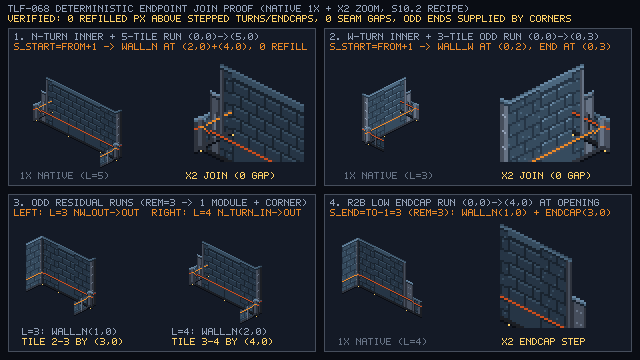
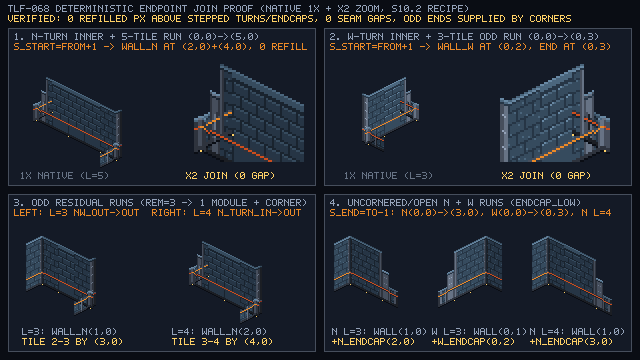
art(ch01): TLF-068 unify uncornered N/W endcap_low contract, join proof, and §10.2 column docs

Changed region(s): [[0.5, 0.6111, 0.9688, 0.9778], [0.5312, 0.55, 0.9688, 0.6111]]

diff --git a/tools/art/gen/tlf068_shape_kit.py b/tools/art/gen/tlf068_shape_kit.py
@@ -984,15 +984,18 @@ def assemble_wall_run(face, from_pt, to_pt, start_kind='corner', end_kind='corne
           * 'corner' for all full-height / same-height start corners (`nw_outer`, `n_turn_outer`,
             `w_turn_outer`, `low_corner_inner`), where s_start = from (first module at from + 1).
       - end_kind:
-          * 'endcap_low' when the tall N/W run ends at an opening with `n_endcap_low` / `w_endcap_low`
-            anchored at `to - 1` (spanning [to-2, to-1] full height + [to-1, to] stepped low bollard),
-            so full-height straight modules stop at s_end = to - 1.
+          * 'endcap_low' when the tall N/W run terminates without a corner (at a Rule R2b doorway/corridor
+            opening OR an uncornered odd/even open end) with `n_endcap_low` / `w_endcap_low` anchored at
+            `to - 1` (spanning [to-2, to-1] full height + [to-1, to] stepped low bollard), so full-height
+            straight modules stop at s_end = to - 1. ('open_odd' is also accepted as a compatibility alias
+            for 'endcap_low'.)
           * 'corner' when `to_pt` has a corner (`n_turn_outer`, `w_turn_outer`, `nw_inner`,
             `low_corner_outer`, `n_turn_inner` on low_E, `w_turn_inner` on low_S), which supplies
             [to-1, to] at full run height, so s_end = to.
 
     Returns:
-      List of (stem, anchor_px, pivot, z_bias) for the straight 2-tile modules (and endcap if end_kind=='endcap_low').
+      List of (stem, anchor_px, pivot, z_bias) for the straight 2-tile modules (and endcap when
+      end_kind in ('endcap_low', 'open_odd')).
       When `rem = s_end - s_start` is odd (`rem = 2*m + 1`), the `m` straight modules cover `[s_start, s_end - 1]`
       and the remaining 1-tile interval `[s_end - 1, s_end]` is already supplied by the end corner's `[to - 1, to]`
       wing (or the endcap's `[to - 2, to - 1]` full-height half) with 0 gap and 0 overlap.
@@ -1003,8 +1006,9 @@ def assemble_wall_run(face, from_pt, to_pt, start_kind='corner', end_kind='corne
     f = fx if along_x else fy
     t = tx if along_x else ty
 
+    use_endcap = (face in ('N', 'W') and end_kind in ('endcap_low', 'open_odd'))
     s_start = (f + 1) if (face in ('N', 'W') and start_kind == 'inner_turn') else f
-    s_end = (t - 1) if (face in ('N', 'W') and end_kind == 'endcap_low') else t
+    s_end = (t - 1) if use_endcap else t
     rem = max(0, s_end - s_start)
     m = rem // 2
 
@@ -1021,7 +1025,7 @@ def assemble_wall_run(face, from_pt, to_pt, start_kind='corner', end_kind='corne
         pt = (u, fy) if along_x else (fx, u)
         placements.append((stem, _tile_to_px(pt[0], pt[1], origin), piv, -2))
 
-    if face in ('N', 'W') and end_kind == 'endcap_low':
+    if use_endcap:
         end_stem = (
             'ch01_env_wall_subterranean_n_endcap_low_idle'
             if face == 'N' else
@@ -1225,6 +1229,34 @@ def build_endpoint_join_proof():
                     refilled += 1
         assert refilled == 0, f"{axis} inner turn has {refilled} refilled pixels!"
 
+    # Programmatic verification of uncornered odd/open N and W runs (L=3 and L=4) with end_kind='endcap_low'
+    # (and alias 'open_odd'): 0 empty screen columns across all 16*L footprint columns and 0 refilled step pixels.
+    n_endcap_im = _render_kit_img('ch01_env_wall_subterranean_n_endcap_low_idle')
+    w_endcap_im = _render_kit_img('ch01_env_wall_subterranean_w_endcap_low_idle')
+    for face, endcap_im, step_rng in (('N', n_endcap_im, range(16, 32)), ('W', w_endcap_im, range(0, 16))):
+        for length in (3, 4):
+            for mode in ('endcap_low', 'open_odd'):
+                to_pt = (length, 0) if face == 'N' else (0, length)
+                run = assemble_wall_run(face, (0, 0), to_pt, 'corner', mode, origin=(112, 96))
+                assert len(run) == 2 and 'endcap_low' in run[-1][0], (face, length, mode, run)
+                # Check 0 refilled pixels above the endcap's stepped half from preceding straight module:
+                w_stem, w_apx, _wpiv, _wzb = run[0]
+                e_stem, e_apx, _epiv, _ezb = run[-1]
+                w_img = _load_or_render_env(w_stem)
+                dx, dy = w_apx[0] - e_apx[0], w_apx[1] - e_apx[1]
+                for x in step_rng:
+                    for y in range(64):
+                        wx, wy = x - dx, y - dy
+                        if 0 <= wx < 32 and 0 <= wy < 64 and endcap_im.getpixel((x, y))[3] == 0:
+                            assert w_img.getpixel((wx, wy))[3] == 0, f"{face} L={length} refilled endcap step at {(x, y)}"
+                # Check 0 empty footprint columns across all 16*L active-axis columns:
+                chk = Image.new('RGBA', (256, 160), (0, 0, 0, 0))
+                items = list(run) + [('ch01_env_wall_subterranean_corner_nw_outer_idle', (112, 96), (16, 56), 10)]
+                for st, apx, pv, zb in sorted(items, key=lambda v: (v[1][1] + v[3], v[1][0])):
+                    chk.alpha_composite(_load_or_render_env(st), (apx[0] - pv[0], apx[1] - pv[1]))
+                xs = range(112, 112 + 16 * length) if face == 'N' else range(112 - 16 * length, 112)
+                assert all(any(chk.getpixel((x, y))[3] != 0 for y in range(160)) for x in xs), (face, length, mode)
+
     _draw_text_img(canvas, 8, 5, "TLF-068 DETERMINISTIC ENDPOINT JOIN PROOF (NATIVE 1X + X2 ZOOM, S10.2 RECIPE)", PAL[15], scale=1)
     _draw_text_img(canvas, 8, 15, "VERIFIED: 0 REFILLED PX ABOVE STEPPED TURNS/ENDCAPS, 0 SEAM GAPS, ODD ENDS SUPPLIED BY CORNERS", PAL[26], scale=1)
 
@@ -1332,19 +1364,35 @@ def build_endpoint_join_proof():
     _draw_text_img(b3, 164, 144, "TILE 3-4 BY (4,0)", PAL[26], scale=1)
     canvas.alpha_composite(b3, (8, 194))
 
-    # Panel 4 (Bottom-Right, 308x158 at (324, 194)): R2b Low Endcap Termination (L=4, s_end=to-1=3, rem=3)
-    b4 = make_box(308, 158, "4. R2B LOW ENDCAP RUN (0,0)->(4,0) AT OPENING", "S_END=TO-1=3 (REM=3): WALL_N(1,0) + ENDCAP(3,0)")
-    crop4 = render_assembly(
-        origin=(36, 72),
+    # Panel 4 (Bottom-Right, 308x158 at (324, 194)): Uncornered/Open N & W Terminations (end_kind='endcap_low', L=3 & L=4)
+    b4 = make_box(308, 158, "4. UNCORNERED/OPEN N + W RUNS (ENDCAP_LOW)", "S_END=TO-1: N(0,0)->(3,0), W(0,0)->(0,3), N L=4")
+    crop4n3 = render_assembly(
+        origin=(24, 72),
+        runs=[('N', (0, 0), (3, 0), 'corner', 'endcap_low', 0)],
+        corners=[(c_nw_out, (0, 0), (16, 56), 10)],
+        crop_rect=(6, 12, 82, 112),
+    )
+    crop4w3 = render_assembly(
+        origin=(72, 72),
+        runs=[('W', (0, 0), (0, 3), 'corner', 'endcap_low', 0)],
+        corners=[(c_nw_out, (0, 0), (16, 56), 10)],
+        crop_rect=(18, 12, 94, 112),
+    )
+    crop4n4 = render_assembly(
+        origin=(24, 72),
         runs=[('N', (0, 0), (4, 0), 'corner', 'endcap_low', 0)],
         corners=[(c_nw_out, (0, 0), (16, 56), 10)],
-        crop_rect=(16, 12, 124, 116),
+        crop_rect=(6, 12, 98, 112),
     )
-    b4.alpha_composite(crop4, (14, 32))
-    _draw_text_img(b4, 14, 144, "1X NATIVE (L=4)", PAL[14], scale=1)
-    z4 = crop4.crop((32, 18, 92, 70)).resize((120, 104), Image.NEAREST)
-    b4.alpha_composite(z4, (176, 30))
-    _draw_text_img(b4, 178, 144, "X2 ENDCAP STEP", PAL[26], scale=1)
+    b4.alpha_composite(crop4n3, (8, 30))
+    _draw_text_img(b4, 8, 134, "N L=3: WALL(1,0)", PAL[15], scale=1)
+    _draw_text_img(b4, 8, 144, "+N_ENDCAP(2,0)", PAL[26], scale=1)
+    b4.alpha_composite(crop4w3, (108, 30))
+    _draw_text_img(b4, 108, 134, "W L=3: WALL(0,1)", PAL[15], scale=1)
+    _draw_text_img(b4, 108, 144, "+W_ENDCAP(0,2)", PAL[26], scale=1)
+    b4.alpha_composite(crop4n4, (206, 30))
+    _draw_text_img(b4, 206, 134, "N L=4: WALL(1,0)", PAL[15], scale=1)
+    _draw_text_img(b4, 206, 144, "+N_ENDCAP(3,0)", PAL[26], scale=1)
     canvas.alpha_composite(b4, (324, 194))
 
     return canvas

diff --git a/design/art/ASSET_METADATA.md b/design/art/ASSET_METADATA.md
@@ -922,8 +922,8 @@ In `scripts/rooms/room_shape.gd` (and `tools/content/build_room_from_shape.py`),
 #### Endpoint-Aware Straight-Run Assembly Recipe (`assemble_wall_run()` in `tools/art/gen/tlf068_shape_kit.py`)
 
 Every `32 px`-wide vertex corner sprite centered on `v` (`pivot = (16, 56)` on `32 × 64` tall/turn corners; `pivot = (16, 24)` on `32 × 32` low corners) spans `16 px` (`1` tile) left of `v` (`x = 0..15`) and `16 px` (`1` tile) right of `v` (`x = 16..31`), so it already supplies **`1` tile on its incoming edge (`[to - 1, to]`)** and **`1` tile on its outgoing edge (`[from, from + 1]`)**. Specifically:
-- On `ch01_env_wall_subterranean_corner_n_turn_inner_idle` (`faces = [&"low_E", &"N"]` at `v = from`), `x = 0..15` supplies `[to.y - 1, to.y]` on the incoming `low_E` edge (`16 px` tall) and `x = 16..31` supplies `[from.x, from.x + 1]` on the outgoing `N` edge stepping up `16 px -> 32 px -> 48 px` (`x = 16..20` bollard, `x = 21..25` steel step, `x = 26..31` full `48 px` tall `N` profile). Because `x = 16..25` is intentionally transparent above the stepped profile, placing a full-height `WallN` module at `from.x + 1` (covering `[from.x, from.x + 2]`) would refill `227` opaque pixels above the step.
-- Symmetric rule on `ch01_env_wall_subterranean_corner_w_turn_inner_idle` (`faces = [&"W", &"low_S"]` at `v = from`): `x = 16..31` supplies `[to.x - 1, to.x]` on incoming `low_S` (`16 px` tall) and `x = 0..15` supplies `[from.y, from.y + 1]` on outgoing `W` stepping up `16 px -> 32 px -> 48 px` (`x = 11..15` bollard, `x = 6..10` steel step, `x = 0..5` full `48 px` tall `W` profile); placing `WallW` at `from.y + 1` would likewise refill `227` opaque pixels above the step.
+- On `ch01_env_wall_subterranean_corner_n_turn_inner_idle` (`faces = [&"low_E", &"N"]` at `v = from`), **both** the incoming `low_E` arm (`[to.y - 1, to.y]`, `16 px` tall) and the outgoing `N` arm (`[from.x, from.x + 1]`, stepping up `16 px -> 32 px -> 48 px`: `x = 16..20` bollard, `x = 21..25` steel step, `x = 26..31` full `48 px` tall `N` profile) project into **`x = 16..31`** (because both `(v.x, v.y - 1)` and `(v.x + 1, v.y)` have `(t.x - t.y) == (v.x - v.y) + 1`). Because `x = 16..25` is intentionally transparent above the stepped profile, placing a full-height `WallN` module at `from.x + 1` (covering `[from.x, from.x + 2]`) would refill `227` opaque pixels above the step.
+- Symmetric rule on `ch01_env_wall_subterranean_corner_w_turn_inner_idle` (`faces = [&"W", &"low_S"]` at `v = from`): **both** the incoming `low_S` arm (`[to.x - 1, to.x]`, `16 px` tall) and the outgoing `W` arm (`[from.y, from.y + 1]`, stepping up `16 px -> 32 px -> 48 px`: `x = 11..15` bollard, `x = 6..10` steel step, `x = 0..5` full `48 px` tall `W` profile) project into **`x = 0..15`** (because both `(v.x - 1, v.y)` and `(v.x, v.y + 1)` have `(t.x - t.y) == (v.x - v.y) - 1`); placing `WallW` at `from.y + 1` would likewise refill `227` opaque pixels above the step.
 
 For any straight segment `from -> to` on `face in {&"N", &"W", &"low_S", &"low_E"}` along active axis coordinate `f -> t` (`f = from.x, t = to.x` on `N`/`low_S`; `f = from.y, t = to.y` on `W`/`low_E`, with `f < t` and total tile length `L = t - f`):
 
@@ -931,34 +931,33 @@ For any straight segment `from -> to` on `face in {&"N", &"W", &"low_S", &"low_E
    - **After `n_turn_inner` on `N` or `w_turn_inner` on `W` (`start_kind == "inner_turn"`):** `s_start = f + 1` (preserving the `[f, f + 1]` low-to-tall step-up supplied by the corner). The **first** 2-tile straight module is anchored at **`u_0 = s_start + 1 = f + 2`** (`tile_to_px(from.x + 2, from.y)` on `N`; `tile_to_px(from.x, from.y + 2)` on `W`), covering `[f + 1, f + 3]` so its outer column (`x = 0` on `WallN`, `x = 31` on `WallW`) abuts the corner's full-height `48 px` edge (`x = 31` on `n_turn_inner`, `x = 0` on `w_turn_inner`) with `0` gap pixels and `0` refilled pixels above the step.
    - **After all other start corners (`nw_outer`, `nw_inner`, `n_turn_outer`, `w_turn_outer`, `low_corner_inner`, `low_corner_outer`, or open start):** `s_start = f`. The **first** 2-tile straight module is anchored at **`u_0 = s_start + 1 = f + 1`** (`tile_to_px(from.x + 1, from.y)` on `N`/`low_S`; `tile_to_px(from.x, from.y + 1)` on `W`/`low_E`), covering `[f, f + 2]` at matching height underneath the corner sprite (`z_bias = +10`).
 2. **Effective straight-module end `s_end` (last straight-module anchor next to each end corner / endcap kind):**
-   - **Before a `Rule R2b` doorway/opening low endcap (`end_kind == "endcap_low"`, where `n_endcap_low` / `w_endcap_low` is anchored at `t - 1` covering `[t - 2, t]`):** `s_end = t - 1` (reserving `[t - 1, t]` for the endcap's `30 px -> 16 px` stepped half so no tall module refills it).
-   - **Before any corner piece at `t` (`n_turn_outer`, `w_turn_outer`, `nw_inner`, `nw_outer`, `n_turn_inner`, `w_turn_inner`, `low_corner_inner`, `low_corner_outer`):** `s_end = t`.
+   - **Before any uncornered/open tall `N`/`W` termination (`end_kind == "endcap_low"`, required for both a `Rule R2b` doorway/corridor opening and any uncornered odd/even open end, where `n_endcap_low` / `w_endcap_low` is anchored at `t - 1` covering `[t - 2, t]`):** `s_end = t - 1` (reserving `[t - 1, t]` for the endcap's `30 px -> 16 px` stepped half so no tall module refills it, while its full-height `48 px` inner half supplies `[t - 2, t - 1]`). *(Note: `assemble_wall_run()` also accepts `"open_odd"` as a compatibility alias for `"endcap_low"`.)*
+   - **Before any corner piece at `t` (`end_kind == "corner"`: `n_turn_outer`, `w_turn_outer`, `nw_inner`, `nw_outer`, `n_turn_inner`, `w_turn_inner`, `low_corner_inner`, `low_corner_outer`):** `s_end = t`.
 3. **Straight 2-tile module count `m` and anchors `u_k` (`k = 0 .. m - 1`):**
    - Compute `rem = max(0, s_end - s_start)` and `m = rem // 2`.
    - Place `m` 2-tile straight modules (`WallN`, `WallW`, `LowS`, or `LowE`, each spanning `[u_k - 1, u_k + 1]`) at axis coordinates:
      $$u_k = s_{\text{start}} + 2k + 1 \quad \text{for } k \in \{0, 1, \dots, m - 1\}$$
      so the **first** straight module is at `u_0 = s_start + 1` and the **last** straight module is at `u_{m-1} = s_start + 2*m - 1` (covering `[s_start, s_start + 2*m]`).
 4. **Residual / odd-length end handling (`rem % 2 == 1` vs `rem % 2 == 0`) & `z_bias` layering:**
-   - **When `rem` is even (`2*m == rem`):** The `m` straight modules cover `[s_start, s_end]`. The end corner at `t` (drawn with `z_bias = +10` after straight runs at `z_bias = 0`) or the full-height half `[t - 2, t - 1]` of the low endcap at `t - 1` (`z_bias = +5`) composites cleanly over `[s_end - 1, s_end]` at matching height.
-   - **When `rem` is odd (`2*m == rem - 1`, e.g., a 3-tile short run `(0,0)->(3,0)` with `s_start = 0, s_end = 3, rem = 3, m = 1` at `u_0 = 1`; or a 5-tile NE-cut `N` run `(7,0)->(12,0)` after `n_turn_inner` with `s_start = 8, s_end = 12, rem = 4, m = 2` at `u = 9, 11`; or a 3-tile SW-cut `W` run `(0,0)->(0,3)` after `w_turn_inner` with `s_start = 1, s_end = 3, rem = 2, m = 1` at `u_0 = 2`; or a 4-tile run `(0,0)->(4,0)` after `n_turn_inner` with `s_start = 1, s_end = 4, rem = 3, m = 1` at `u_0 = 2`):** The `m` straight modules cover `[s_start, s_end - 1]`, and the remaining 1-tile residual interval **`[s_end - 1, s_end]` is already 100% supplied** by:
-     - the end corner's incoming 1-tile wing `[t - 1, t]` (`x = 0..15` on `n_turn_outer` / `nw_inner` / `low_corner_inner` / `low_corner_outer`; `x = 16..31` on `w_turn_outer` / `nw_inner` / `n_turn_inner` / `low_corner_outer`), which has matching `48 px` tall or `16 px` low profile across that full tile, **or**
-     - when `end_kind == "endcap_low"` (`s_end = t - 1`), the full-height `48 px` inner half `[t - 2, t - 1]` of `n_endcap_low` / `w_endcap_low` anchored at `t - 1` (while its outer half `[t - 1, t]` steps down to `16 px`), **or**
-     - if an odd `N`/`W` run terminates at an uncornered open end (`end_kind == "open_odd"`), `n_endcap_low` / `w_endcap_low` anchored at `t - 1`.
+   - **When `rem` is even (`2*m == rem`, e.g., an uncornered odd `L = 3` run `assemble_wall_run('N', (0,0), (3,0), 'corner', 'endcap_low')` or `assemble_wall_run('W', (0,0), (0,3), 'corner', 'endcap_low')` where `s_start = 0, s_end = 2, rem = 2, m = 1`):** The `m` straight modules cover `[s_start, s_end]` (`WallN(1,0)` / `WallW(0,1)` covering `[0,2]`). When `end_kind == "corner"`, the end corner at `t` (`z_bias = +10`) composites over `[t - 1, t]` at matching height; when `end_kind == "endcap_low"`, `n_endcap_low(2,0)` / `w_endcap_low(0,2)` (`z_bias = +2`) covers `[1, 2]` with its full-height `48 px` inner half and supplies the final uncornered tile `[2, 3]` with its `30 -> 16 px` stepped half (`0` empty columns, `0` refilled step pixels).
+   - **When `rem` is odd (`2*m == rem - 1`, e.g., a 3-tile corner-ended run `(0,0)->(3,0)` with `s_start = 0, s_end = 3, rem = 3, m = 1` at `u_0 = 1`; a 4-tile inner-turn run `(0,0)->(4,0)` after `n_turn_inner` with `s_start = 1, s_end = 4, rem = 3, m = 1` at `u_0 = 2`; or a 4-tile open/endcap run `assemble_wall_run('N', (0,0), (4,0), 'corner', 'endcap_low')` with `s_start = 0, s_end = 3, rem = 3, m = 1` at `u_0 = 1`):** The `m` straight modules cover `[s_start, s_end - 1]`, and the remaining 1-tile residual interval **`[s_end - 1, s_end]` is already 100% supplied** by:
+     - when `end_kind == "corner"`, the end corner's incoming 1-tile wing `[t - 1, t]` (`x = 0..15` on `n_turn_outer` / `nw_inner` / `w_turn_inner` / `low_corner_outer`; `x = 16..31` on `w_turn_outer` / `n_turn_inner`), which has matching `48 px` tall or `16 px` low profile across that full tile, **or**
+     - when `end_kind == "endcap_low"` (`s_end = t - 1`), the full-height `48 px` inner half `[t - 2, t - 1]` of `n_endcap_low` / `w_endcap_low` anchored at `t - 1` (while its outer half `[t - 1, t]` steps down to `16 px`).
 
 | `wall_segments()` `kind` | `face` | `faces` (`[prev, next]`) | Asset Filename (`assets/environments/ch01/`) | Canvas (`W×H`) | Pivot / `offset` | Tile / Vertex Anchor `position` (`RoomShape.tile_to_px(...)`) | Edge Occupancy & Endpoint Rule |
 |---|---|---|---|---|---|---|---|
-| `&"straight"` | `&"N"` | *(n/a)* | `ch01_env_wall_subterranean_n_idle.png` *(existing)* | `32 × 64 px` | `(16, 56)` / `Vector2(-16, -56)` | `tile_to_px(s_start + 2*k + 1, from.y)` for `k in 0 .. (rem // 2) - 1` (`s_start = from.x + 1` after `n_turn_inner`, else `from.x`; `s_end = to.x - 1` before `n_endcap_low`, else `to.x`; `rem = s_end - s_start`) | Each module spans `[u_k - 1, u_k + 1]`; first at `from.x + 2` after `n_turn_inner`, `from.x + 1` after `nw_outer`; odd residual `[s_end - 1, s_end]` supplied by end corner/endcap |
-| `&"straight"` | `&"W"` | *(n/a)* | `ch01_env_wall_subterranean_w_idle.png` *(existing)* | `32 × 64 px` | `(16, 56)` / `Vector2(-16, -56)` | `tile_to_px(from.x, s_start + 2*k + 1)` for `k in 0 .. (rem // 2) - 1` (`s_start = from.y + 1` after `w_turn_inner`, else `from.y`; `s_end = to.y - 1` before `w_endcap_low`, else `to.y`; `rem = s_end - s_start`) | Each module spans `[u_k - 1, u_k + 1]`; first at `from.y + 2` after `w_turn_inner`, `from.y + 1` after `nw_outer`; odd residual `[s_end - 1, s_end]` supplied by end corner/endcap |
-| `&"straight"` *(R2b opening / open odd end)* | `&"N"` | *(n/a)* | `ch01_env_wall_subterranean_n_endcap_low_idle.png` | `32 × 64 px` | `(16, 56)` / `Vector2(-16, -56)` | `tile_to_px(to.x - 1, from.y)` (`z_bias = +5`) | Spans `[to.x - 2, to.x]`: `x = 0..15` (`[to.x - 2, to.x - 1]`) is `48 px` tall `N` wall; `x = 16..31` (`[to.x - 1, to.x]`) steps `30 px -> 16 px` (`s_end = to.x - 1`) |
-| `&"straight"` *(R2b opening / open odd end)* | `&"W"` | *(n/a)* | `ch01_env_wall_subterranean_w_endcap_low_idle.png` | `32 × 64 px` | `(16, 56)` / `Vector2(-16, -56)` | `tile_to_px(from.x, to.y - 1)` (`z_bias = +5`) | Spans `[to.y - 2, to.y]`: `x = 16..31` (`[to.y - 2, to.y - 1]`) is `48 px` tall `W` wall; `x = 0..15` (`[to.y - 1, to.y]`) steps `30 px -> 16 px` (`s_end = to.y - 1`) |
+| `&"straight"` | `&"N"` | *(n/a)* | `ch01_env_wall_subterranean_n_idle.png` *(existing)* | `32 × 64 px` | `(16, 56)` / `Vector2(-16, -56)` | `tile_to_px(s_start + 2*k + 1, from.y)` for `k in 0 .. (rem // 2) - 1` (`s_start = from.x + 1` after `n_turn_inner`, else `from.x`; `s_end = to.x - 1` when `end_kind == "endcap_low"`, else `to.x`; `rem = s_end - s_start`) | Each module spans `[u_k - 1, u_k + 1]`; first at `from.x + 2` after `n_turn_inner`, `from.x + 1` after `nw_outer`; odd residual `[s_end - 1, s_end]` supplied by end corner/endcap |
+| `&"straight"` | `&"W"` | *(n/a)* | `ch01_env_wall_subterranean_w_idle.png` *(existing)* | `32 × 64 px` | `(16, 56)` / `Vector2(-16, -56)` | `tile_to_px(from.x, s_start + 2*k + 1)` for `k in 0 .. (rem // 2) - 1` (`s_start = from.y + 1` after `w_turn_inner`, else `from.y`; `s_end = to.y - 1` when `end_kind == "endcap_low"`, else `to.y`; `rem = s_end - s_start`) | Each module spans `[u_k - 1, u_k + 1]`; first at `from.y + 2` after `w_turn_inner`, `from.y + 1` after `nw_outer`; odd residual `[s_end - 1, s_end]` supplied by end corner/endcap |
+| `&"straight"` *(`end_kind == "endcap_low"`)* | `&"N"` | *(n/a)* | `ch01_env_wall_subterranean_n_endcap_low_idle.png` | `32 × 64 px` | `(16, 56)` / `Vector2(-16, -56)` | `tile_to_px(to.x - 1, from.y)` (`z_bias = +2`) | Required for any uncornered/open `N` end (R2b opening or odd/even open end). Spans `[to.x - 2, to.x]`: `x = 0..15` (`[to.x - 2, to.x - 1]`) is `48 px` tall `N` wall; `x = 16..31` (`[to.x - 1, to.x]`) steps `30 px -> 16 px` (`s_end = to.x - 1`) |
+| `&"straight"` *(`end_kind == "endcap_low"`)* | `&"W"` | *(n/a)* | `ch01_env_wall_subterranean_w_endcap_low_idle.png` | `32 × 64 px` | `(16, 56)` / `Vector2(-16, -56)` | `tile_to_px(from.x, to.y - 1)` (`z_bias = +2`) | Required for any uncornered/open `W` end (R2b opening or odd/even open end). Spans `[to.y - 2, to.y]`: `x = 16..31` (`[to.y - 2, to.y - 1]`) is `48 px` tall `W` wall; `x = 0..15` (`[to.y - 1, to.y]`) steps `30 px -> 16 px` (`s_end = to.y - 1`) |
 | `&"straight"` | `&"low_S"` | *(n/a)* | `ch01_env_wall_partition_low_s_idle.png` | `32 × 32 px` | `(16, 24)` / `Vector2(-16, -24)` | `tile_to_px(from.x + 2*k + 1, from.y)` for `k in 0 .. (rem // 2) - 1` (`s_start = from.x`, `s_end = to.x`, `rem = to.x - from.x`) | `Rule R2`: `16 px <= 20 px` tall; odd residual `[to.x - 1, to.x]` supplied by end corner `[to.x - 1, to.x]` wing |
 | `&"straight"` | `&"low_E"` | *(n/a)* | `ch01_env_wall_partition_low_e_idle.png` | `32 × 32 px` | `(16, 24)` / `Vector2(-16, -24)` | `tile_to_px(from.x, from.y + 2*k + 1)` for `k in 0 .. (rem // 2) - 1` (`s_start = from.y`, `s_end = to.y`, `rem = to.y - from.y`) | `Rule R2`: `16 px <= 20 px` tall; odd residual `[to.y - 1, to.y]` supplied by end corner `[to.y - 1, to.y]` wing |
 | `&"outer_corner"` | `&"N"` | `[&"W", &"N"]` | `ch01_env_wall_subterranean_corner_nw_outer_idle.png` | `32 × 64 px` | `(16, 56)` / `Vector2(-16, -56)` | `tile_to_px(from)` (`from == to == v`, `z_bias = +10`) | Supplies `48 px` `[v.y, v.y + 1]` on `W` (`x = 0..15`) and `48 px` `[v.x, v.x + 1]` on `N` (`x = 16..31`); next straight starts at `s_start = f` (`u_0 = f + 1`) |
-| `&"inner_corner"` | `&"N"` | `[&"N", &"W"]` | `ch01_env_wall_subterranean_corner_nw_inner_idle.png` | `32 × 64 px` | `(16, 56)` / `Vector2(-16, -56)` | `tile_to_px(from)` (`from == to == v`, `z_bias = +10`) | Supplies `48 px` `[v.x - 1, v.x]` on incoming `N` (`x = 0..15`) and `48 px` `[v.y - 1, v.y]` on `W` (`x = 16..31`) |
+| `&"inner_corner"` | `&"N"` | `[&"N", &"W"]` | `ch01_env_wall_subterranean_corner_nw_inner_idle.png` | `32 × 64 px` | `(16, 56)` / `Vector2(-16, -56)` | `tile_to_px(from)` (`from == to == v`, `z_bias = +10`) | Supplies `48 px` `[v.x - 1, v.x]` on incoming `N` and `48 px` `[v.y, v.y + 1]` on outgoing `W` (`x = 0..15` wings + `x = 15..20` corner pillar) |
 | `&"outer_corner"` | `&"N"` | `[&"N", &"low_E"]` | `ch01_env_wall_subterranean_corner_n_turn_outer_idle.png` | `32 × 64 px` | `(16, 56)` / `Vector2(-16, -56)` | `tile_to_px(from)` (`from == to == v`, `z_bias = +10`) | Supplies `48 px` `[v.x - 1, v.x]` on incoming `N` (`x = 0..15`) + `6 px` return cap (`x = 16..21`) + `16 px` `[v.y, v.y + 1]` on outgoing `low_E` (`x = 0..15`) |
-| `&"inner_corner"` | `&"N"` | `[&"low_E", &"N"]` | `ch01_env_wall_subterranean_corner_n_turn_inner_idle.png` | `32 × 64 px` | `(16, 56)` / `Vector2(-16, -56)` | `tile_to_px(from)` (`from == to == v`, `z_bias = +10`) | Supplies `16 px` `[v.y - 1, v.y]` on incoming `low_E` (`x = 0..15`) and stepped `16->32->48 px` `[v.x, v.x + 1]` on outgoing `N` (`x = 16..31`); sets `s_start = v.x + 1` (first `WallN` at `v.x + 2`) |
+| `&"inner_corner"` | `&"N"` | `[&"low_E", &"N"]` | `ch01_env_wall_subterranean_corner_n_turn_inner_idle.png` | `32 × 64 px` | `(16, 56)` / `Vector2(-16, -56)` | `tile_to_px(from)` (`from == to == v`, `z_bias = +10`) | Supplies `16 px` `[v.y - 1, v.y]` on incoming `low_E` and stepped `16->32->48 px` `[v.x, v.x + 1]` on outgoing `N` (both in `x = 16..31`); sets `s_start = v.x + 1` (first `WallN` at `v.x + 2`) |
 | `&"outer_corner"` | `&"W"` | `[&"low_S", &"W"]` | `ch01_env_wall_subterranean_corner_w_turn_outer_idle.png` | `32 × 64 px` | `(16, 56)` / `Vector2(-16, -56)` | `tile_to_px(from)` (`from == to == v`, `z_bias = +10`) | Supplies `48 px` `[v.y - 1, v.y]` on `W` (`x = 16..31`) + `6 px` return cap (`x = 10..15`) + `16 px` `[v.x, v.x + 1]` on `low_S` (`x = 16..31`) |
-| `&"inner_corner"` | `&"W"` | `[&"W", &"low_S"]` | `ch01_env_wall_subterranean_corner_w_turn_inner_idle.png` | `32 × 64 px` | `(16, 56)` / `Vector2(-16, -56)` | `tile_to_px(from)` (`from == to == v`, `z_bias = +10`) | Supplies `16 px` `[v.x - 1, v.x]` on `low_S` (`x = 16..31`) and stepped `16->32->48 px` `[v.y, v.y + 1]` on `W` (`x = 0..15`); sets `s_start = v.y + 1` (first `WallW` at `v.y + 2`) |
+| `&"inner_corner"` | `&"W"` | `[&"W", &"low_S"]` | `ch01_env_wall_subterranean_corner_w_turn_inner_idle.png` | `32 × 64 px` | `(16, 56)` / `Vector2(-16, -56)` | `tile_to_px(from)` (`from == to == v`, `z_bias = +10`) | Supplies `16 px` `[v.x - 1, v.x]` on `low_S` and stepped `16->32->48 px` `[v.y, v.y + 1]` on `W` (both in `x = 0..15`); sets `s_start = v.y + 1` (first `WallW` at `v.y + 2`) |
 | `&"inner_corner"` | `&"low_S"` | `[&"low_S", &"low_E"]` | `ch01_env_wall_partition_low_corner_inner_idle.png` | `32 × 32 px` | `(16, 24)` / `Vector2(-16, -24)` | `tile_to_px(from)` (`from == to == v`, `z_bias = +10`) | Supplies `16 px` `[v.x, v.x + 1]` on `low_S` (`x = 16..31`) and `16 px` `[v.y, v.y + 1]` on `low_E` (`x = 0..15`); `s_start = f` (`u_0 = f + 1`) |
 | `&"outer_corner"` | `&"low_S"` | `[&"low_E", &"low_S"]` | `ch01_env_wall_partition_low_corner_outer_idle.png` | `32 × 32 px` | `(16, 24)` / `Vector2(-16, -24)` | `tile_to_px(from)` (`from == to == v`, `z_bias = +10`) | Supplies `16 px` `[v.x - 1, v.x]` on `low_S` (`x = 0..15`) and `16 px` `[v.y - 1, v.y]` on `low_E` (`x = 16..31`) |
 
